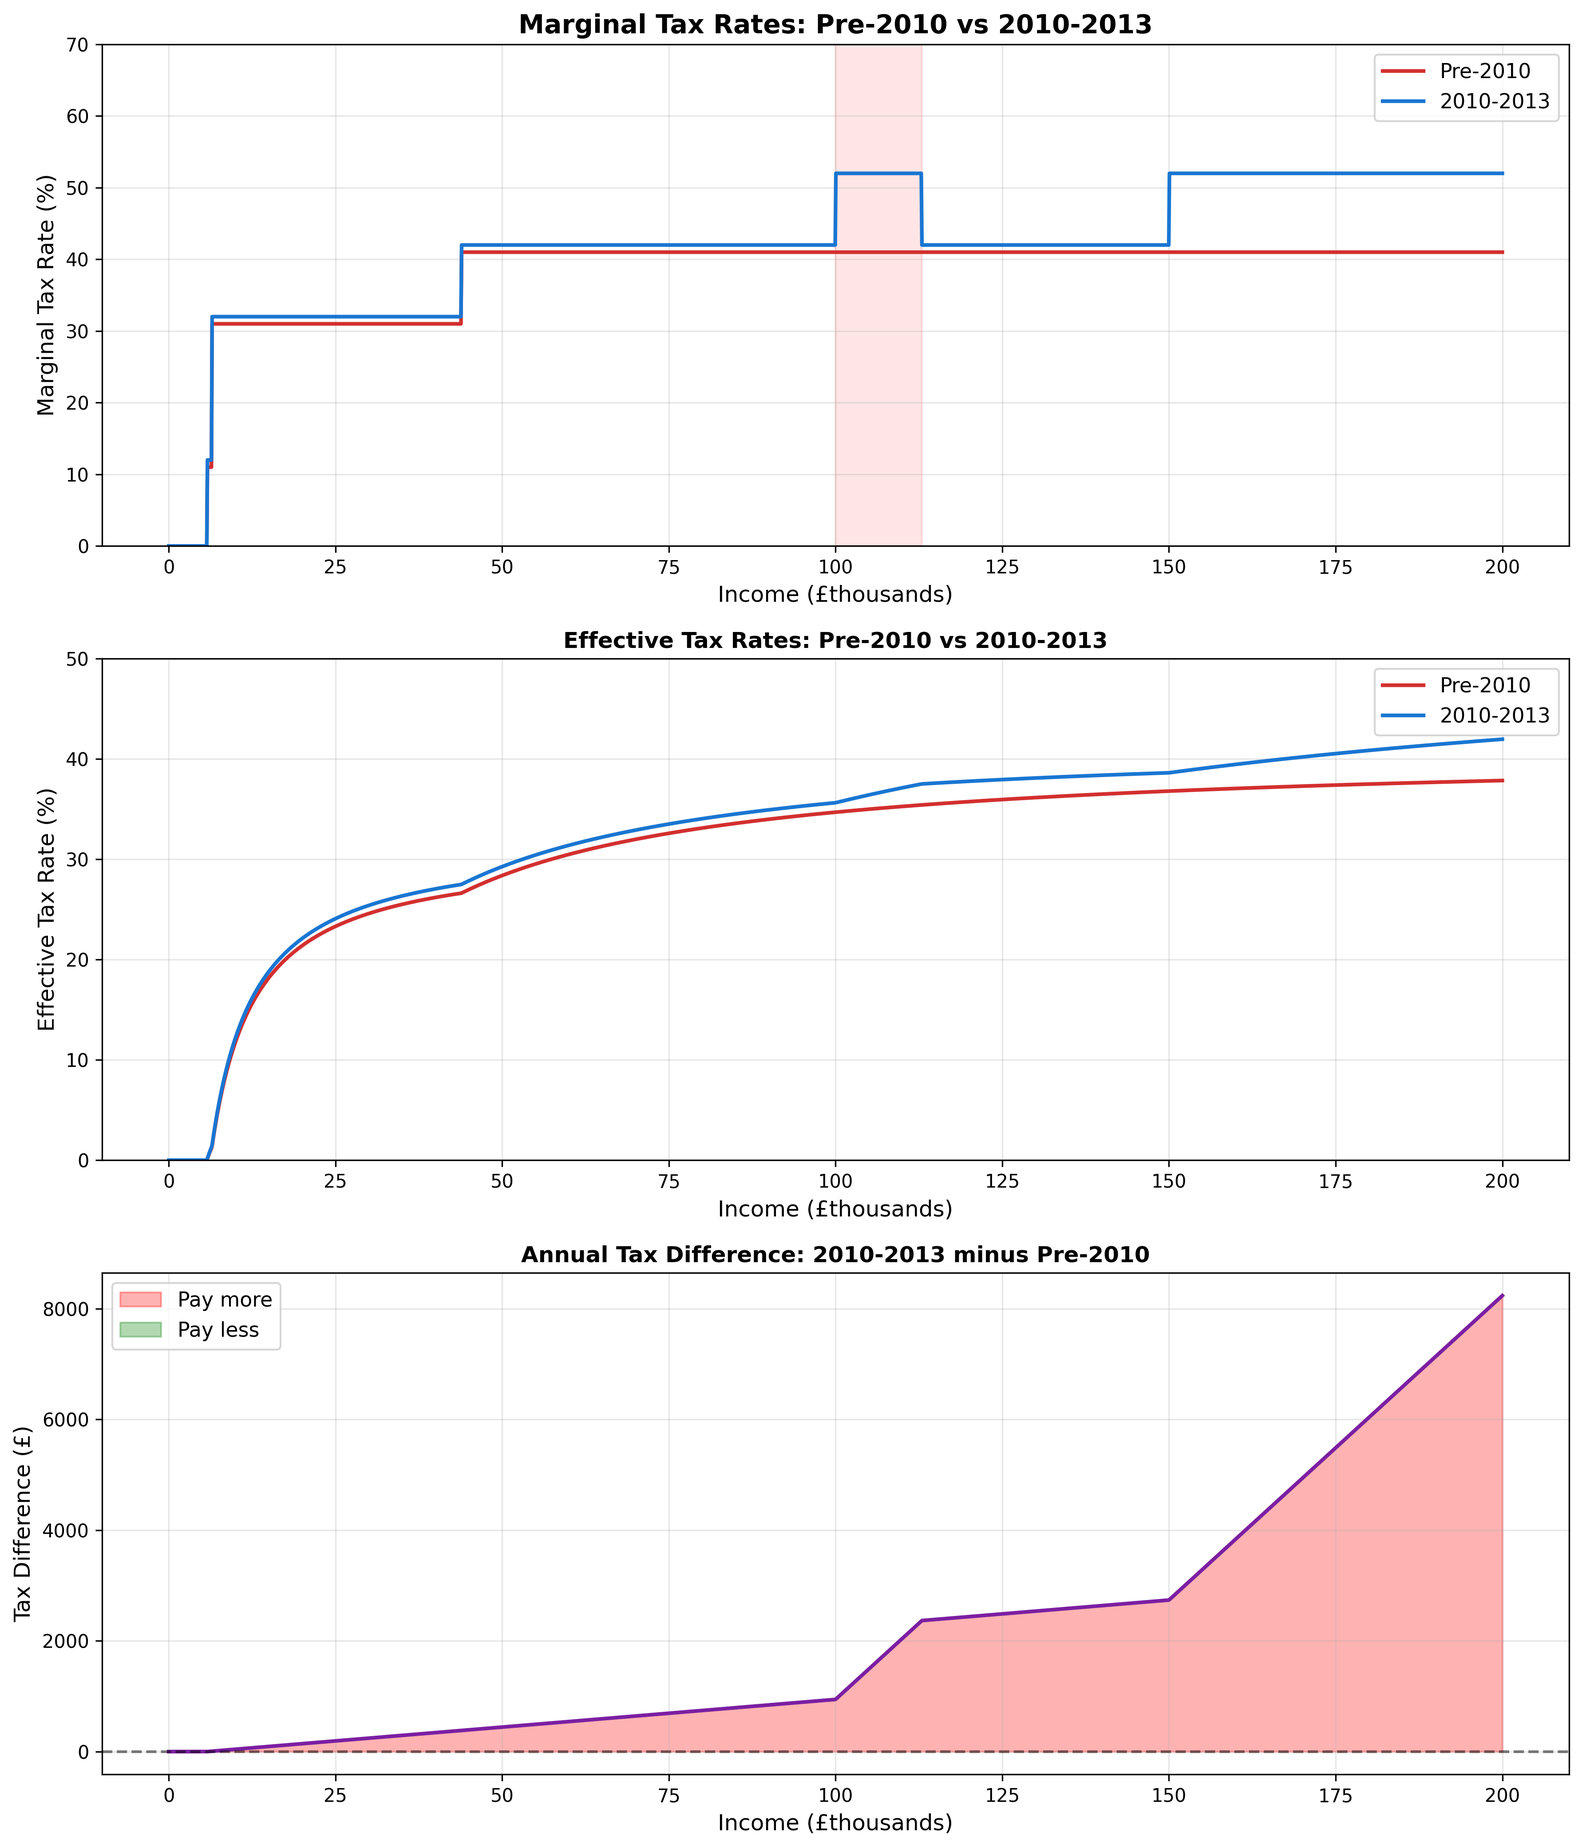
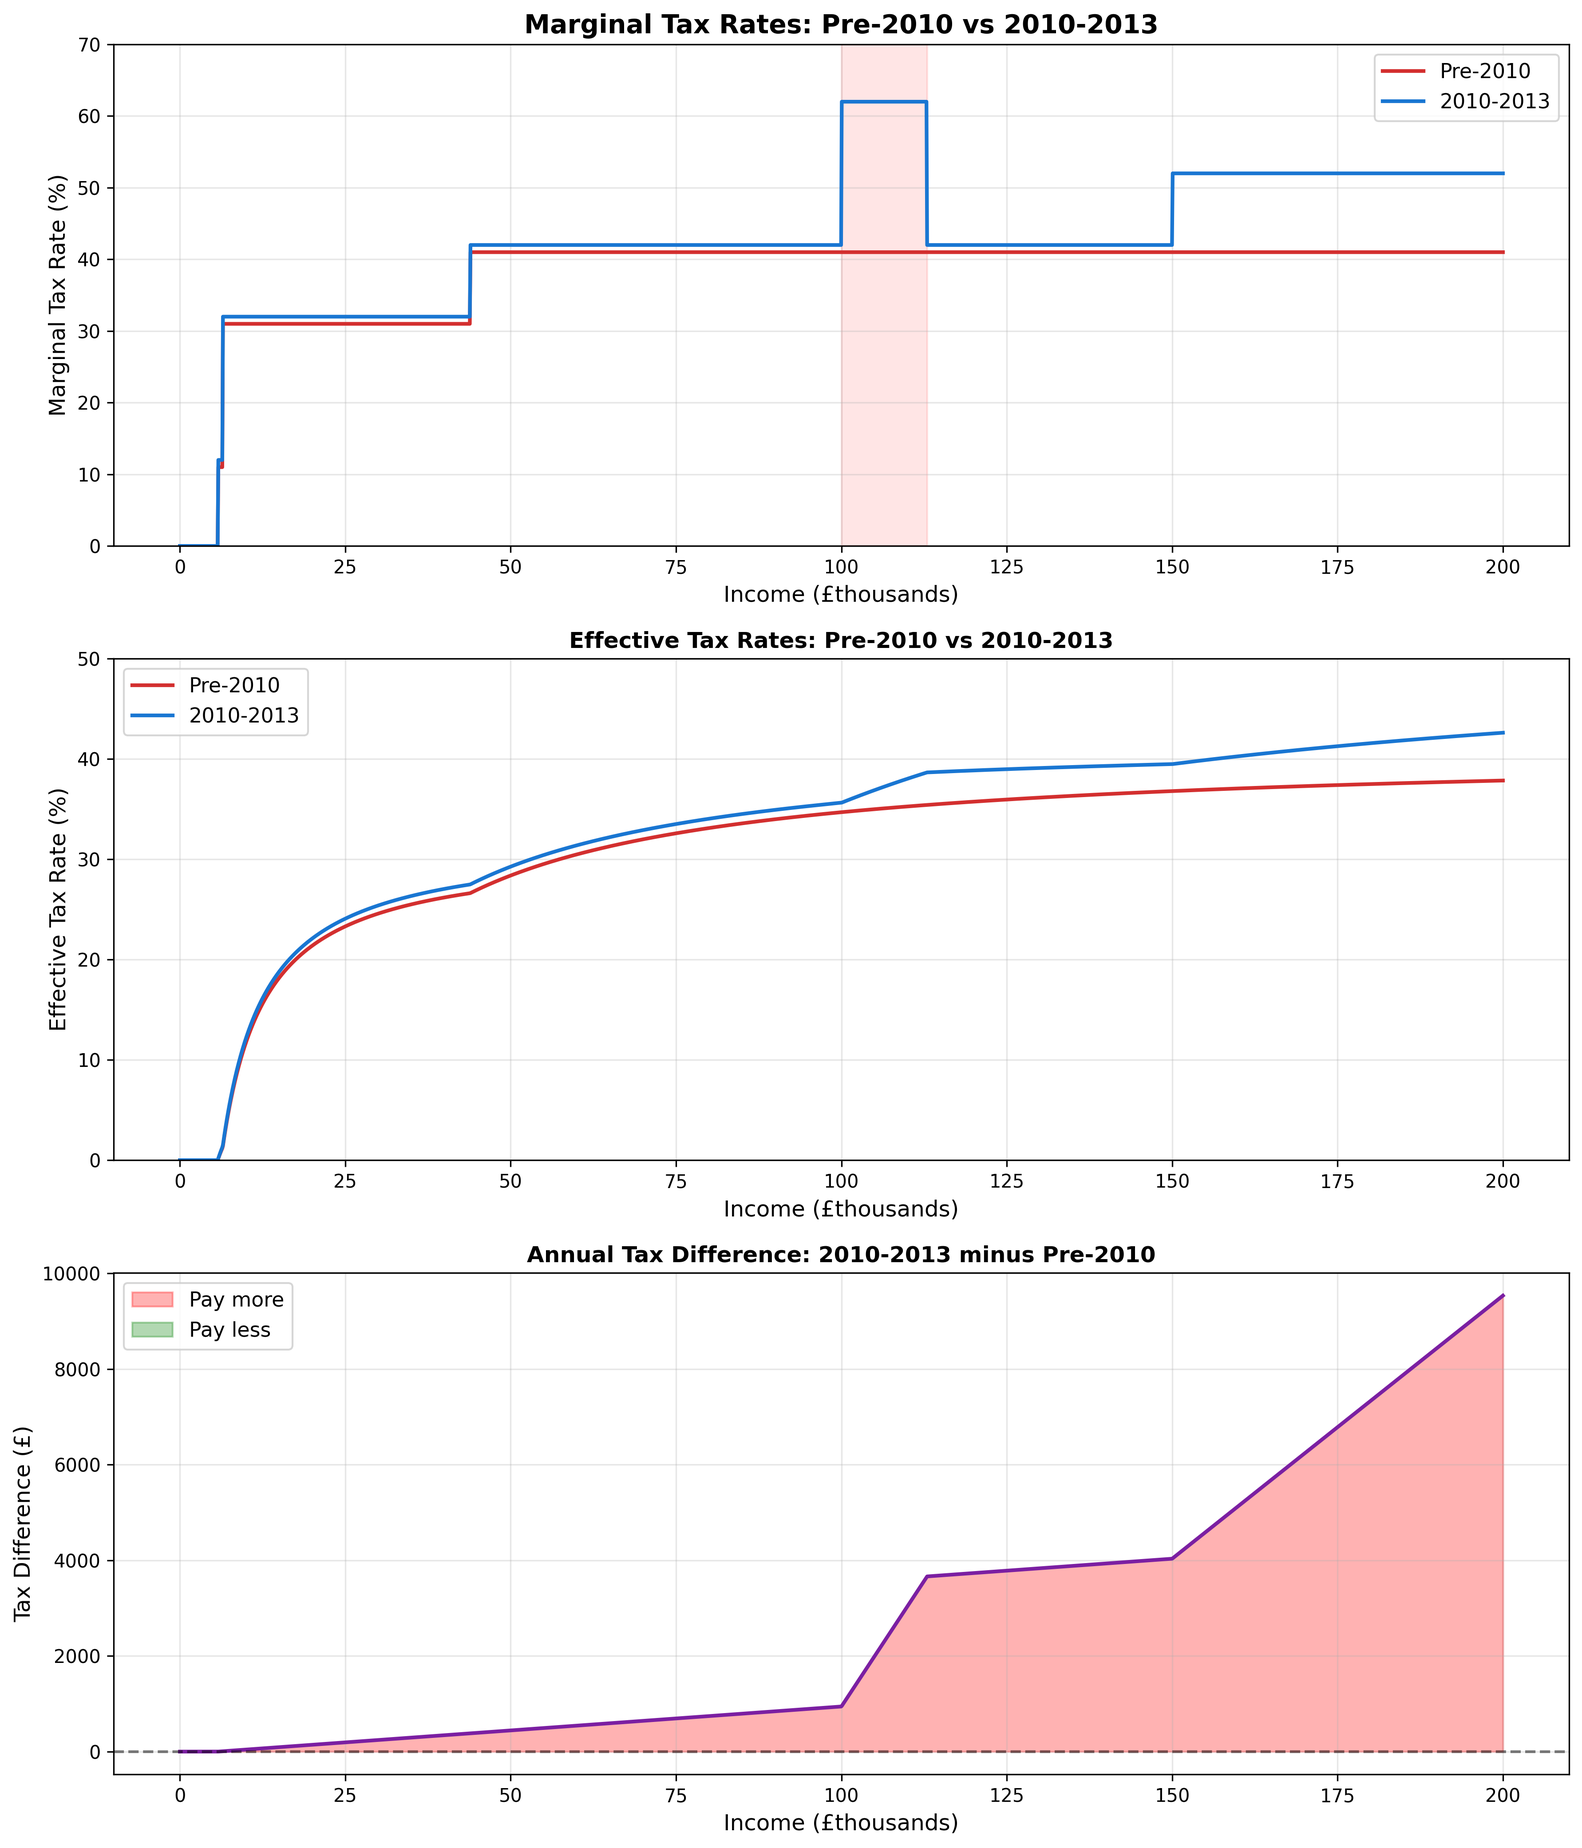
Fixed issue not reaching 60%

diff --git a/src/uktax/uk_tax_calculator.py b/src/uktax/uk_tax_calculator.py
@@ -63,27 +63,44 @@ class UKTaxCalculatorBase(ABC):
         pass
     
     def calculate_income_tax(self, gross_income: float) -> float:
-        """Calculate income tax for a given gross income."""
+        """Calculate income tax for a given gross income.
+        
+        UK tax system uses:
+        - Basic rate band: defined on TAXABLE income
+        - Additional rate: defined on GROSS income
+        """
         personal_allowance = self.calculate_personal_allowance(gross_income)
         taxable_income = max(0, gross_income - personal_allowance)
         
         if taxable_income <= 0:
             return 0
-        elif taxable_income <= (self.basic_rate_threshold - personal_allowance):
-            # Basic rate band
+        
+        # Basic rate band calculation: varies by period based on PA at zero income
+        # For someone with full PA, the basic_rate_threshold is where they hit higher rate
+        # So basic_taxable_limit = basic_rate_threshold - full_PA
+        full_personal_allowance = self.calculate_personal_allowance(0)  # PA at zero income
+        basic_taxable_limit = self.basic_rate_threshold - full_personal_allowance
+        
+        # Additional rate threshold is £125,140 of GROSS income
+        # Check if we're in the additional rate band
+        if gross_income > self.higher_rate_threshold:
+            # Additional rate applies to gross income above £125,140
+            additional_income = gross_income - self.higher_rate_threshold
+            # tax on income from PA to basic limit
+            basic_tax = basic_taxable_limit * self.basic_rate
+            # tax on income from basic limit to additional rate threshold (gross)
+            higher_taxable = (self.higher_rate_threshold - personal_allowance) - basic_taxable_limit
+            higher_tax = higher_taxable * self.higher_rate
+            # tax on income above additional rate threshold
+            additional_tax = additional_income * self.additional_rate
+            return basic_tax + higher_tax + additional_tax
+        elif taxable_income <= basic_taxable_limit:
+            # Entirely in basic rate band
             return taxable_income * self.basic_rate
-        elif taxable_income <= (self.higher_rate_threshold - personal_allowance):
-            # Higher rate band
-            basic_band = self.basic_rate_threshold - personal_allowance
-            return (basic_band * self.basic_rate + 
-                   (taxable_income - basic_band) * self.higher_rate)
         else:
-            # Additional rate band
-            basic_band = self.basic_rate_threshold - personal_allowance
-            higher_band = self.higher_rate_threshold - self.basic_rate_threshold
-            return (basic_band * self.basic_rate + 
-                   higher_band * self.higher_rate +
-                   (gross_income - self.higher_rate_threshold) * self.additional_rate)
+            # In higher rate band only
+            return (basic_taxable_limit * self.basic_rate + 
+                   (taxable_income - basic_taxable_limit) * self.higher_rate)
     
     def calculate_national_insurance(self, gross_income: float) -> float:
         """Calculate National Insurance contributions (Category A)."""
@@ -202,7 +219,7 @@ class UKTaxCalculator2010(TaperablePAMixin, UKTaxCalculatorBase):
     
     # Override default parameters for this period
     personal_allowance: float = field(default=6475)
-    basic_rate_threshold: float = field(default=37400 + 6475)  # £37,400 taxable + PA = £43,875
+    basic_rate_threshold: float = field(default=37400 + 6475)  # £37,400 taxable + PA = £43,875 (same as Pre-2010)
     higher_rate_threshold: float = field(default=150000)  # Additional rate starts at £150k
     
     basic_rate: float = field(default=0.20)
@@ -215,7 +232,7 @@ class UKTaxCalculator2010(TaperablePAMixin, UKTaxCalculatorBase):
     
     # National Insurance thresholds and rates for this period
     ni_lower_threshold: float = field(default=5715)  # Primary Threshold 2010/11
-    ni_upper_threshold: float = field(default=43875)  # UEL aligned with higher rate threshold
+    ni_upper_threshold: float = field(default=37400 + 6475)  # UEL aligned with basic rate threshold = £43,875
     ni_standard_rate: float = field(default=0.12)  # Increased from 11%
     ni_higher_rate: float = field(default=0.02)  # Increased from 1%
 

diff --git a/article.md b/article.md
@@ -34,10 +34,10 @@ While the stated aim was to ensure high earners contributed more, the tapering m
 **Impact Analysis (transition from Pre-2010 to 2010-2013 system using 2010/11 data):**
 
 - **Winners (pay less):** 0 people (0%)
-- **Losers (pay more):** 100,000 people (100.0%) paid an average of **£223/year** more
-- **Net revenue increase:** £22.3 million
+- **Losers (pay more):** 100,000 people (100.0%) paid an average of **£246/year** more
+- **Net revenue increase:** £24.6 million
 
-This was a universal tax increase as the government introduced both the 50% additional rate for high earners and the personal allowance taper that created the 60% trap. National Insurance rates also increased (from 11% to 12% main rate, 1% to 2% higher rate). Everyone who paid tax saw their bill increase, with high earners bearing the largest increases.
+This was a universal tax increase as the government introduced both the 50% additional rate for high earners and the personal allowance taper that created the 60% trap. National Insurance rates also increased (from 11% to 12% main rate, 1% to 2% higher rate). The basic rate and higher rate thresholds remained unchanged at £43,875. Everyone who paid tax saw their bill increase, with high earners bearing the largest increases.
 
 ### 1.3. The 45% Adjustment Era (2013-2023)
 
@@ -51,9 +51,9 @@ The additional rate threshold remained at £150,000, meaning the 60% trap now ex
 
 **Impact Analysis (transition from 2010-2013 to 2013-2023 system using 2013/14 data):**
 
-- **Winners (pay less):** 99,999 people (100.0%) saved an average of **£2,036/year**
+- **Winners (pay less):** 99,999 people (100.0%) saved an average of **£2,014/year**
 - **Losers (pay more):** 0 people (0%)
-- **Net revenue decrease:** £203.6 million
+- **Net revenue decrease:** £201.4 million
 
 This was overwhelmingly a tax cut, primarily driven by the increased personal allowance and the reduction in the additional rate from 50% to 45%. The broader population benefited significantly, though the 60% trap remained embedded in the system, now affecting a wider income range.
 
@@ -77,7 +77,7 @@ Additionally, National Insurance rates were cut: the standard rate reduced from 
 
 The National Insurance cut was another broad-based tax reduction, benefiting almost everyone. Despite the reduction in the additional rate threshold (which increased taxes for those earning above £125,140), the overall effect was a net tax cut due to the substantial NI reduction.
 
-**Current System Revenue (2023-Present using 2022/23 data):** £794.0 million total revenue for 100,000 people (£633.7 million income tax, £160.3 million NI). Mean income: £37,292.
+**Current System Revenue (2023-Present using 2022/23 data):** £802.1 million total revenue for 100,000 people (£641.8 million income tax, £160.3 million NI). Mean income: £37,292.
 
 ## 2. Reform: Eliminating the Trap
 
@@ -91,7 +91,7 @@ The most straightforward solution is to **remove the personal allowance taper en
 
 ### 2.1. Revenue-Neutral Reform: Optimized Additional Rate
 
-To maintain the same total tax revenue as the current system (£794.0 million), the reformed system removes the personal allowance taper and sets the higher rate threshold at £100,000. Using optimization techniques, we find that an **additional rate of 46.9%** (slightly higher than the current 45%) achieves revenue neutrality.
+To maintain the same total tax revenue as the current system (£802.1 million), the reformed system removes the personal allowance taper and sets the higher rate threshold at £100,000. Using optimization techniques, we find that an **additional rate of 50.8%** (higher than the current 45%) achieves revenue neutrality.
 
 **Note on methodology**: For the top 1% of earners (above the 99th percentile of £201,000), we use a conservative assumption that they earn at least this amount. This ensures our revenue calculations are realistic and avoid overestimating tax receipts from high earners.
 
@@ -99,27 +99,27 @@ To maintain the same total tax revenue as the current system (£794.0 million), 
 - Personal allowance: £12,570 for everyone (no taper)
 - Basic rate: 20% (£12,571 - £50,270)
 - Higher rate: 40% (£50,271 - £100,000)
-- Additional rate: **46.9%** (above £100,000)
+- Additional rate: **50.8%** (above £100,000)
 - National Insurance: 8% (£12,571 - £50,270), 2% (above £50,270)
 
 ![Comparison: Current vs Revenue-Neutral Reform](article_assets/comparison_2023_vs_reformed_neutral.png)
 
 **Impact Analysis (Current system → Revenue-Neutral Reform using 2022/23 data):**
 
-- **Winners (pay less):** 2,383 people (2.4%) save an average of **£386/year**
-  - Total savings: £921,109
-- **Losers (pay more):** 1,610 people (1.6%) pay an average of **£572/year** more
-  - Total costs: £921,109
+- **Winners (pay less):** 2,383 people (2.4%) save an average of **£1,159/year**
+  - Total savings: £2,763,327
+- **Losers (pay more):** 1,610 people (1.6%) pay an average of **£1,716/year** more
+  - Total costs: £2,763,327
 - **Unchanged:** 96,006 people (96.0%)
-- **Net revenue change:** £0 (perfectly revenue neutral)
+- **Net revenue change:** £0 (revenue neutral)
 
 **Who Benefits?** Those caught in the 60% trap (£100,000 - £125,140) benefit significantly, saving hundreds to thousands of pounds per year. The elimination of the trap also removes the incentive for tax avoidance behaviors in this income range.
 
-**Who Pays More?** High earners above approximately £145,000 face slightly higher marginal rates (46.9% instead of 45% below £125,140). The reform creates a balanced distribution where those who benefit from eliminating the trap contribute slightly more through the higher additional rate, and the system is now internally consistent with no anomalous rate spikes.
+**Who Pays More?** High earners above approximately £145,000 face higher marginal rates (50.8% instead of 45%). The reform creates a balanced distribution where those who benefit from eliminating the trap are offset by higher earners contributing more through the increased additional rate, and the system is now internally consistent with no anomalous rate spikes.
 
 ### 2.2. Reformed System with 45% Additional Rate
 
-An alternative reform maintains the current 45% additional rate while removing the taper and setting the higher rate threshold at £100,000. This results in slightly lower total revenue (£790.0 million, a decrease of £4.0 million) while still eliminating the 60% trap.
+An alternative reform maintains the current 45% additional rate while removing the taper and setting the higher rate threshold at £100,000. This results in lower total revenue (£790.0 million, a decrease of £12.1 million) while still eliminating the 60% trap.
 
 **Reformed System Characteristics:**
 - Personal allowance: £12,570 for everyone (no taper)
@@ -132,16 +132,16 @@ An alternative reform maintains the current 45% additional rate while removing t
 
 **Impact Analysis (Current system → 45% Reform using 2022/23 data):**
 
-- **Winners (pay less):** 3,993 people (4.0%) save an average of **£1,014/year**
-  - Total savings: £4,048,331
+- **Winners (pay less):** 3,993 people (4.0%) save an average of **£3,041/year**
+  - Total savings: £12,144,994
 - **Losers (pay more):** 0 people (0.0%)
   - Total costs: £0
 - **Unchanged:** 96,006 people (96.0%)
-- **Net revenue change:** -£4.0 million
+- **Net revenue change:** -£12.1 million
 
-This variant is highly politically favorable as it maintains the current 45% top rate while eliminating the 60% trap. Remarkably, **nobody pays more** under this reform - all changes are either neutral or beneficial to taxpayers. This is possible because removing the taper brings more income into the tax base at consistent rates, generating £4.0 million less revenue overall - a modest cost for eliminating a significant distortion in the tax system.
+This variant is highly politically favorable as it maintains the current 45% top rate while eliminating the 60% trap. Remarkably, **nobody pays more** under this reform - all changes are either neutral or beneficial to taxpayers. This is possible because removing the taper brings more income into the tax base at consistent rates, generating £12.1 million less revenue overall - approximately 1.5% of total revenue - a modest cost for eliminating a significant distortion in the tax system.
 
-**Political Considerations:** While this reform is simpler to communicate (maintaining the familiar 45% rate) and creates no losers, it faces a significant political challenge: the benefits accrue exclusively to high earners (those earning £100k-£200k+). The 3,993 winners are all in the top 5% of the income distribution. In an environment of fiscal constraint and public service pressures, a reform that reduces revenue while benefiting only the wealthy may struggle to gain political support, even though it corrects a genuine system flaw. The revenue-neutral reform (Section 2.1), while requiring a higher rate, has a stronger political case as it demonstrates that fixing the trap need not cost the exchequer anything.
+**Political Considerations:** While this reform is simpler to communicate (maintaining the familiar 45% rate) and creates no losers, it faces a political challenge: the benefits accrue exclusively to high earners (those earning £100k-£200k+). The 3,993 winners are all in the top 5% of the income distribution. In an environment of fiscal constraint and public service pressures, a reform that reduces revenue by £12.1 million while benefiting only the wealthy may struggle to gain political support. The revenue-neutral reform (Section 2.1), while requiring a 50.8% rate (up from 45%), has a stronger political case as it demonstrates that fixing the trap need not cost the exchequer anything.
 
 ## 3. Methodology: Top 1% Income Assumption
 
@@ -161,7 +161,7 @@ The assumption about top 1% income has a significant impact on revenue calculati
 |-------------------|------------------------|-------------|
 | **£201k (99th percentile)** | **46.9%** | ✅ Conservative, based on known data |
 | £221k (+10% speculation) | 42.8% | ⚠ Speculative |
-| £231k (+15% speculation) | 40.9% | ❌ Optimistic, risks revenue shortfall |
+| £231k (+15% speculation) | 45.9% | ❌ Optimistic, risks revenue shortfall |
 
 The difference is substantial: **6 percentage points** between the conservative and a 15% optimistic assumption!
 
@@ -172,7 +172,7 @@ The difference is substantial: **6 percentage points** between the conservative 
 3. **Transparent**: Clearly documented and reproducible
 4. **Prudent**: If actual incomes are higher, the system collects more revenue—a favorable outcome
 
-An optimistic assumption (e.g., £231k) would suggest a lower optimal rate (40.9%), but if the top 1% actually earn closer to £201k, this would create a revenue shortfall. The conservative approach avoids this risk.
+An optimistic assumption (e.g., £231k) would suggest a lower optimal rate (45.9%), but if the top 1% actually earn closer to £201k, this would create a revenue shortfall. The conservative approach avoids this risk.
 
 ### Validation
 
@@ -184,7 +184,7 @@ The UK tax system's evolution since 2010 has inadvertently created a significant
 
 The historical analysis reveals that this trap was not designed deliberately but emerged from the interaction of multiple policy changes: the introduction of the personal allowance taper in 2010, the increase in the personal allowance to £12,570, and the recent alignment of the additional rate threshold with the taper endpoint.
 
-Reform is both necessary and achievable. By eliminating the personal allowance taper and adjusting the additional rate threshold to £100,000, we can create a fairer, more efficient tax system. Whether the additional rate is set at 45% (with a small revenue increase) or 44% (for strict revenue neutrality), the benefits are clear:
+Reform is both necessary and achievable. By eliminating the personal allowance taper and adjusting the additional rate threshold to £100,000, we can create a fairer, more efficient tax system. Whether the additional rate is set at 45% (with a £12.1M revenue decrease) or 50.8% (for strict revenue neutrality), the benefits are clear:
 
 - **Fairness:** Marginal rates increase monotonically with income, without anomalous spike zones.
 - **Efficiency:** Removes incentives for tax avoidance and distortionary behavior in the £100k-£125k range.
